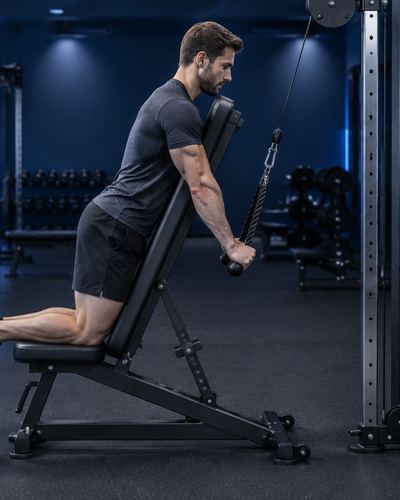
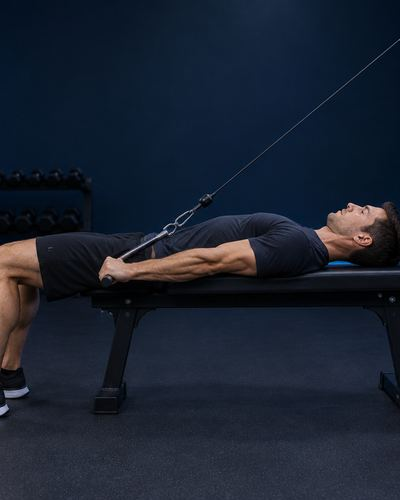
Trizeps Pushdown liegend auf der Bank statt kniend
Rücklings auf der Flachbank, Kopf zum Kabelturm, schulterbreite Stange
parallel am Oberkörper entlang bis zur Streckung und zurück bis Kinnhöhe.
Foto, Schritte, Name und Video angepasst.

Claude-Session: https://claude.ai/code/session_01MPv65TyRWfLE6TBM7iE6xk

diff --git a/apps/pwa/js/uebungen-daten.js b/apps/pwa/js/uebungen-daten.js
@@ -2701,8 +2701,8 @@ export const UEBUNGEN = [
  },
  {
   "id": "trizeps-pushdown-abgelegt",
-  "name": "Trizepsdrücken am Kabel mit Ablage",
-  "nameEn": "Supported Cable Triceps Pushdown",
+  "name": "Trizeps Pushdown liegend auf der Bank",
+  "nameEn": "Lying Cable Triceps Pushdown",
   "pattern": "elbow_extension",
   "primaryMuscles": [
    "Trizeps"
@@ -2713,21 +2713,23 @@ export const UEBUNGEN = [
   "mechanics": "isolation",
   "repRange": "10-15",
   "steps": [
-   "Bank steil vor das obere Kabel stellen, Lehne zum Kabel",
-   "Auf die Sitzfläche knien, Brust und Oberarme auf der Lehne ablegen",
-   "Seil nach unten drücken, bis die Arme gestreckt sind",
-   "Langsam zurück, die Oberarme bleiben auf der Lehne"
+   "Flachbank vor den Kabelturm, auf den Rücken legen, Kopf zum Turm, Kabel oben",
+   "Schulterbreite Stange im Obergriff auf Kinnhöhe, Ellbogen eng am Körper",
+   "Stange parallel zum Oberkörper nach unten drücken, bis die Arme gestreckt sind",
+   "Eng am Oberkörper entlang zurück bis auf Kinnhöhe führen"
   ],
   "gruppe": "arme",
   "video": {
-   "id": "R9F_28Bnveg",
-   "titel": "Trizeps Pushdown mit Ablage",
-   "kanal": "kraftfanadi",
-   "dauer": "2:08"
+   "id": "BetlNLcfj70",
+   "titel": "Trizeps liegend auf der Flachbank mit dem Seilzug",
+   "kanal": "Masterfitness Academy",
+   "dauer": "0:33"
   },
   "alias": [
    "Pushdown abgelegt",
-   "Pushdown auf der Bank"
+   "Pushdown auf der Bank",
+   "Pushdown liegend",
+   "Trizepsdrücken liegend"
   ]
  },
  {

diff --git a/apps/pwa/sw.js b/apps/pwa/sw.js
@@ -6,7 +6,7 @@
  * ist der einzige Weg, den Nutzer zu erreichen, waehrend die App geschlossen
  * ist. Siehe workers/push.
  */
-const CACHE = "daevo-v114";
+const CACHE = "daevo-v115";
 const ASSETS = [
   "./",
   "./index.html",

diff --git a/CLAUDE.md b/CLAUDE.md
@@ -262,7 +262,8 @@ Strichfiguren, keine Clip Art, keine Karten mit Rahmen um Text.
   auch ohne Leerzeichen im Namen ("überkopf" findet "über Kopf") und ohne
   Plural-s ("Pushdowns"), `trifft` in `uebungen.js`. Vorher fand "Multipresse"
   nichts und "Trizeps Extensions überkopf" nicht das Trizepsstrecken über Kopf.
-- Am Kabel gibt es Pushdown beidarmig, einarmig und mit Ablage auf der Bank,
+- Am Kabel gibt es Pushdown beidarmig, einarmig und liegend auf der Bank (Kopf zum Turm,
+  schulterbreite Stange am Oberkörper entlang bis zur Streckung),
   Curl mit Stange, Hammer Curl mit Seil und einarmig, Seitheben einarmig,
   Reverse Butterfly, Butterfly sitzend, Cable Fly von unten nach oben und von
   oben nach unten, Kickback einbeinig und seitlich für den Gluteus medius. Auf
